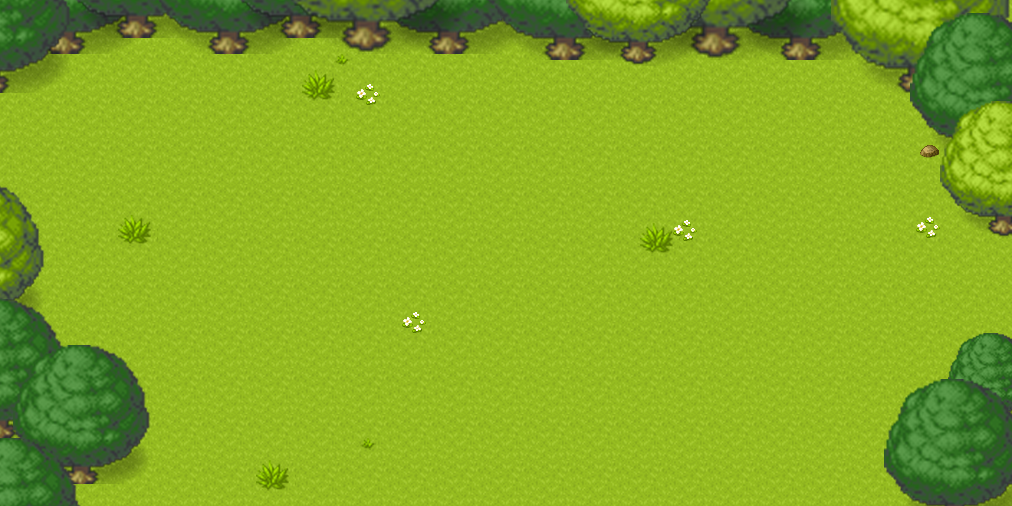
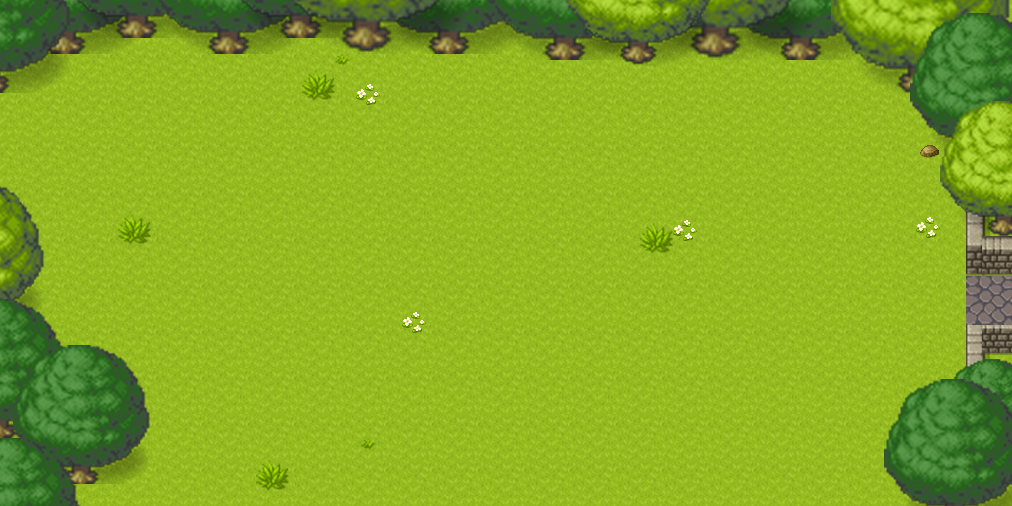
tower graphic

Changed region(s): [[0.919, 0.415, 1.0, 0.8004]]

diff --git a/Tower.java b/Tower.java
@@ -66,27 +66,39 @@ public class Tower {
     // ================= drawing (archer.png / cannon.png / ice.png / fire.png) =================
     public void draw(Graphics2D g) {
         int x = col * CELL, y = row * CELL, cx = x + CELL / 2, cy = y + CELL / 2;
-        g.setColor(new Color(125, 125, 135));
-        g.fillRoundRect(x + 3, y + 3, CELL - 6, CELL - 6, 12, 12);
-        g.setColor(new Color(70, 70, 80));
-        g.drawRoundRect(x + 3, y + 3, CELL - 6, CELL - 6, 12, 12);
+       
+        BufferedImage tower = GameConstants.getImage(type.name().toLowerCase()+ level + ".png");
+        BufferedImage weapon = GameConstants.getImage(type.name().toLowerCase() + "_weapon.png");
+        if (tower != null && weapon != null) {
+            g.drawImage(tower, x + 4, y + 4, CELL - 8, CELL - 10, null);
+            if (weapon != null) {
+                AffineTransform old = g.getTransform();
+                g.translate(cx, cy);
+                int wSize = CELL;
+                if(type != TowerType.ICE && type != TowerType.FIRE){
+                    g.rotate(angle + Math.PI / 2);
+                    g.drawImage(weapon, -wSize / 2, -wSize / 2, wSize, wSize, null);
+                }
+                else    g.drawImage(weapon, -wSize / 2, (-wSize / 2)-10, wSize, wSize, null);
 
-        BufferedImage img = GameConstants.getImage(type.name().toLowerCase() + ".png");
-        if (img != null) g.drawImage(img, x + 4, y + 4, CELL - 8, CELL - 8, null);
+                g.setTransform(old);
+            }
+        } 
         else drawShape(g, cx, cy);
-
+        
         if (fireFlash > 0) {
             int fx = (int) (cx + Math.cos(angle) * 20), fy = (int) (cy + Math.sin(angle) * 20);
             g.setColor(new Color(255, 255, 150, 190));
             g.fillOval(fx - 5, fy - 5, 10, 10);
         }
-
+        /*
         for (int i = 0; i < level; i++) {            // level stars
-            g.setColor(GameConstants.GOLD);
-            g.fillOval(x + 6 + i * 9, y + CELL - 12, 7, 7);
-            g.setColor(Color.BLACK);
-            g.drawOval(x + 6 + i * 9, y + CELL - 12, 7, 7);
-        }
+        g.setColor(GameConstants.GOLD);
+        g.fillOval(x + 6 + i * 9, y + CELL - 12, 7, 7);
+        g.setColor(Color.BLACK);
+        g.drawOval(x + 6 + i * 9, y + CELL - 12, 7, 7);
+    }
+    */
     }
 
     // default drawing when the PNG is missing (turret rotates to the target)

diff --git a/MapDraw.java b/MapDraw.java
@@ -30,7 +30,7 @@ public class MapDraw {
             drawGround(g, map, cs);
             drawPath(g, map, cs);
             drawPortal(g, 0, map.getStartRow(), cs);
-            drawBase(g, map.getBaseCol(), map.getBaseRow(), cs);
+            //drawBase(g, map.getBaseCol(), map.getBaseRow(), cs);
     }
 
     // light grid lines (shown while building)
@@ -60,7 +60,7 @@ public class MapDraw {
 
     // ================= path =================
     private static void drawPath(Graphics2D g, MapData map, int cs) {
-         int t = map.getTheme();
+        int t = map.getTheme();
         BufferedImage tile = GameConstants.getImage("path_" + THEME_KEYS[t] + ".png");
         Color[] c = THEME[t];
         for (int col = 0; col < COLS; col++) {
@@ -68,7 +68,7 @@ public class MapDraw {
                 if (!map.isPath(col, row)) continue;
                 int x = col * cs, y = row * cs;
                 if (tile != null) {
-                    g.drawImage(tile, x-1, y, cs, cs, null);
+                    g.drawImage(tile, x, y, cs, cs, null);
                 } else {
                     g.setColor(c[2]);
                     g.fillRect(x, y, cs, cs);
@@ -118,7 +118,7 @@ public class MapDraw {
         g.fillOval(x + cs * 3 / 8, y + cs * 3 / 8, cs / 4, cs / 4);
     }
 
-    private static void drawBase(Graphics2D g, int c, int r, int cs) {
+    /*private static void drawBase(Graphics2D g, int c, int r, int cs) {
         int x = c * cs, y = r * cs;
         BufferedImage img = GameConstants.getImage("base.png");
         if (img != null) {
@@ -138,5 +138,5 @@ public class MapDraw {
         g.fillPolygon(new int[]{x + cs / 2, x + cs / 2 + cs / 4, x + cs / 2}, new int[]{y, y + cs / 12, y + cs / 6}, 3);
         g.setColor(Color.BLACK);
         g.drawRect(x + cs / 8, y + cs / 3, cs * 3 / 4, cs * 3 / 5);
-    }
+    }*/
 }

diff --git a/MapData.java b/MapData.java
@@ -14,11 +14,11 @@ public class MapData {
     // theme index: 0 forest, 1 desert, 2 snow, 3 EGCO room, 4 lab
     // every path: 22 grids horizontal + 16 grids vertical = same length (38 grids)
     public static final MapData[] MAPS = {
-        new MapData("Forest", false, 0, new int[][]{{-1,2},{5,2},{5,8},{11,8},{11,2},{17,2},{17,6},{21,6}}),
-        new MapData("Desert", false, 1, new int[][]{{-1,8},{4,8},{4,1},{10,1},{10,7},{16,7},{16,4},{21,4}}),
-        new MapData("Snow",   false, 2, new int[][]{{-1,5},{3,5},{3,1},{8,1},{8,9},{14,9},{14,5},{21,5}}),
-        new MapData("EGCO Common Room 6157", true, 3, new int[][]{{-1,1},{7,1},{7,9},{13,9},{13,3},{19,3},{19,5},{21,5}}),
-        new MapData("Lab 6273", true, 4, new int[][]{{-1,9},{2,9},{2,3},{9,3},{9,8},{15,8},{15,3},{21,3}})
+        new MapData("Forest", false, 0, new int[][]{{0,2},{5,2},{5,8},{11,8},{11,2},{17,2},{17,6},{21,6}}),
+        new MapData("Desert", false, 1, new int[][]{{0,8},{4,8},{4,1},{10,1},{10,7},{16,7},{16,4},{21,4}}),
+        new MapData("Snow",   false, 2, new int[][]{{0,5},{3,5},{3,1},{8,1},{8,9},{14,9},{14,5},{21,5}}),
+        new MapData("EGCO Common Room 6157", true, 3, new int[][]{{0,1},{7,1},{7,9},{13,9},{13,3},{19,3},{19,5},{21,5}}),
+        new MapData("Lab 6273", true, 4, new int[][]{{0,9},{2,9},{2,3},{9,3},{9,8},{15,8},{15,3},{21,3}})
     };
 
     private final String name;
